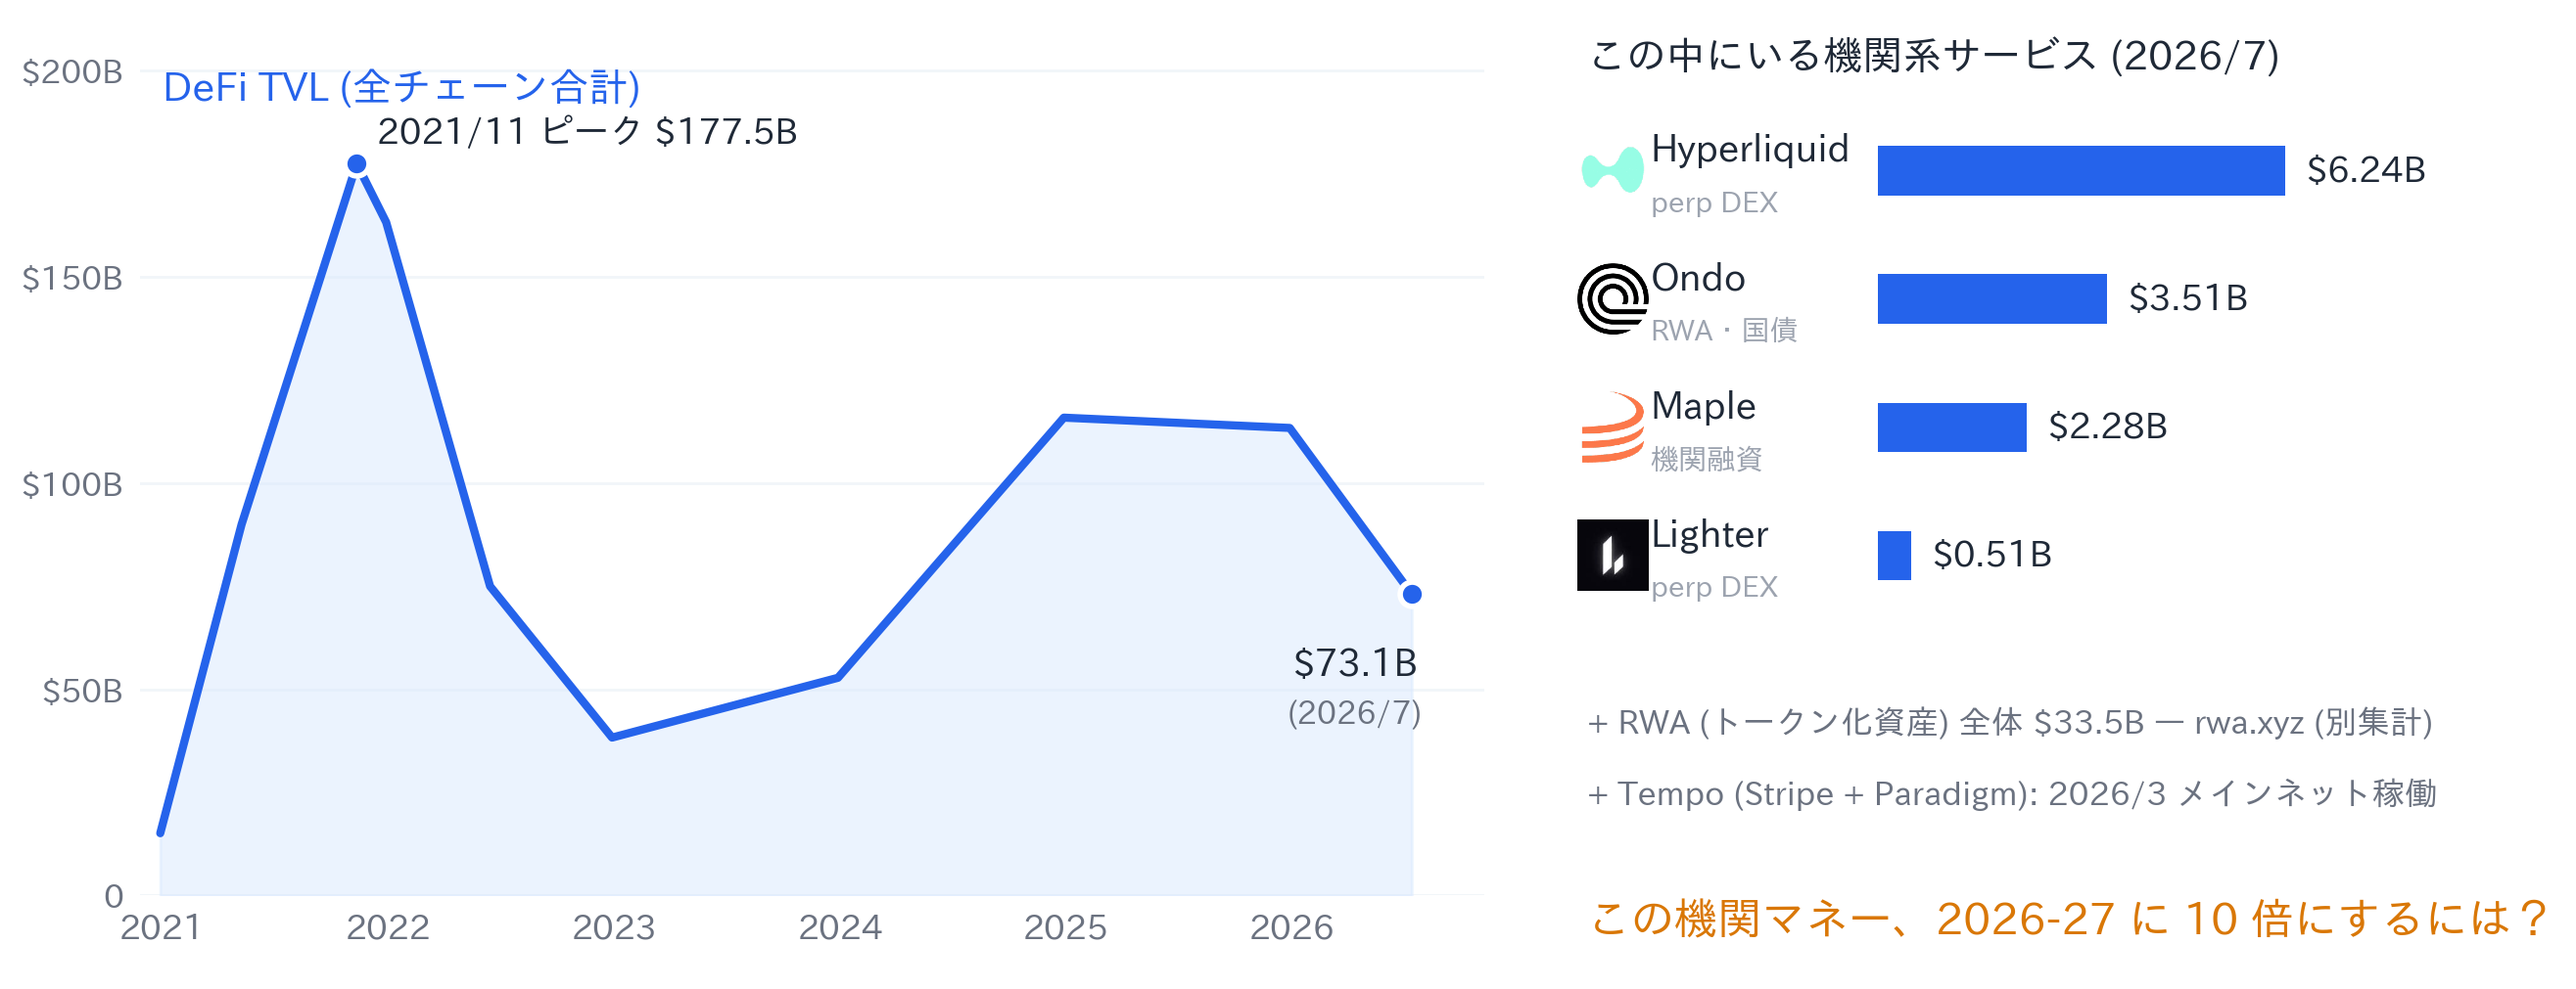
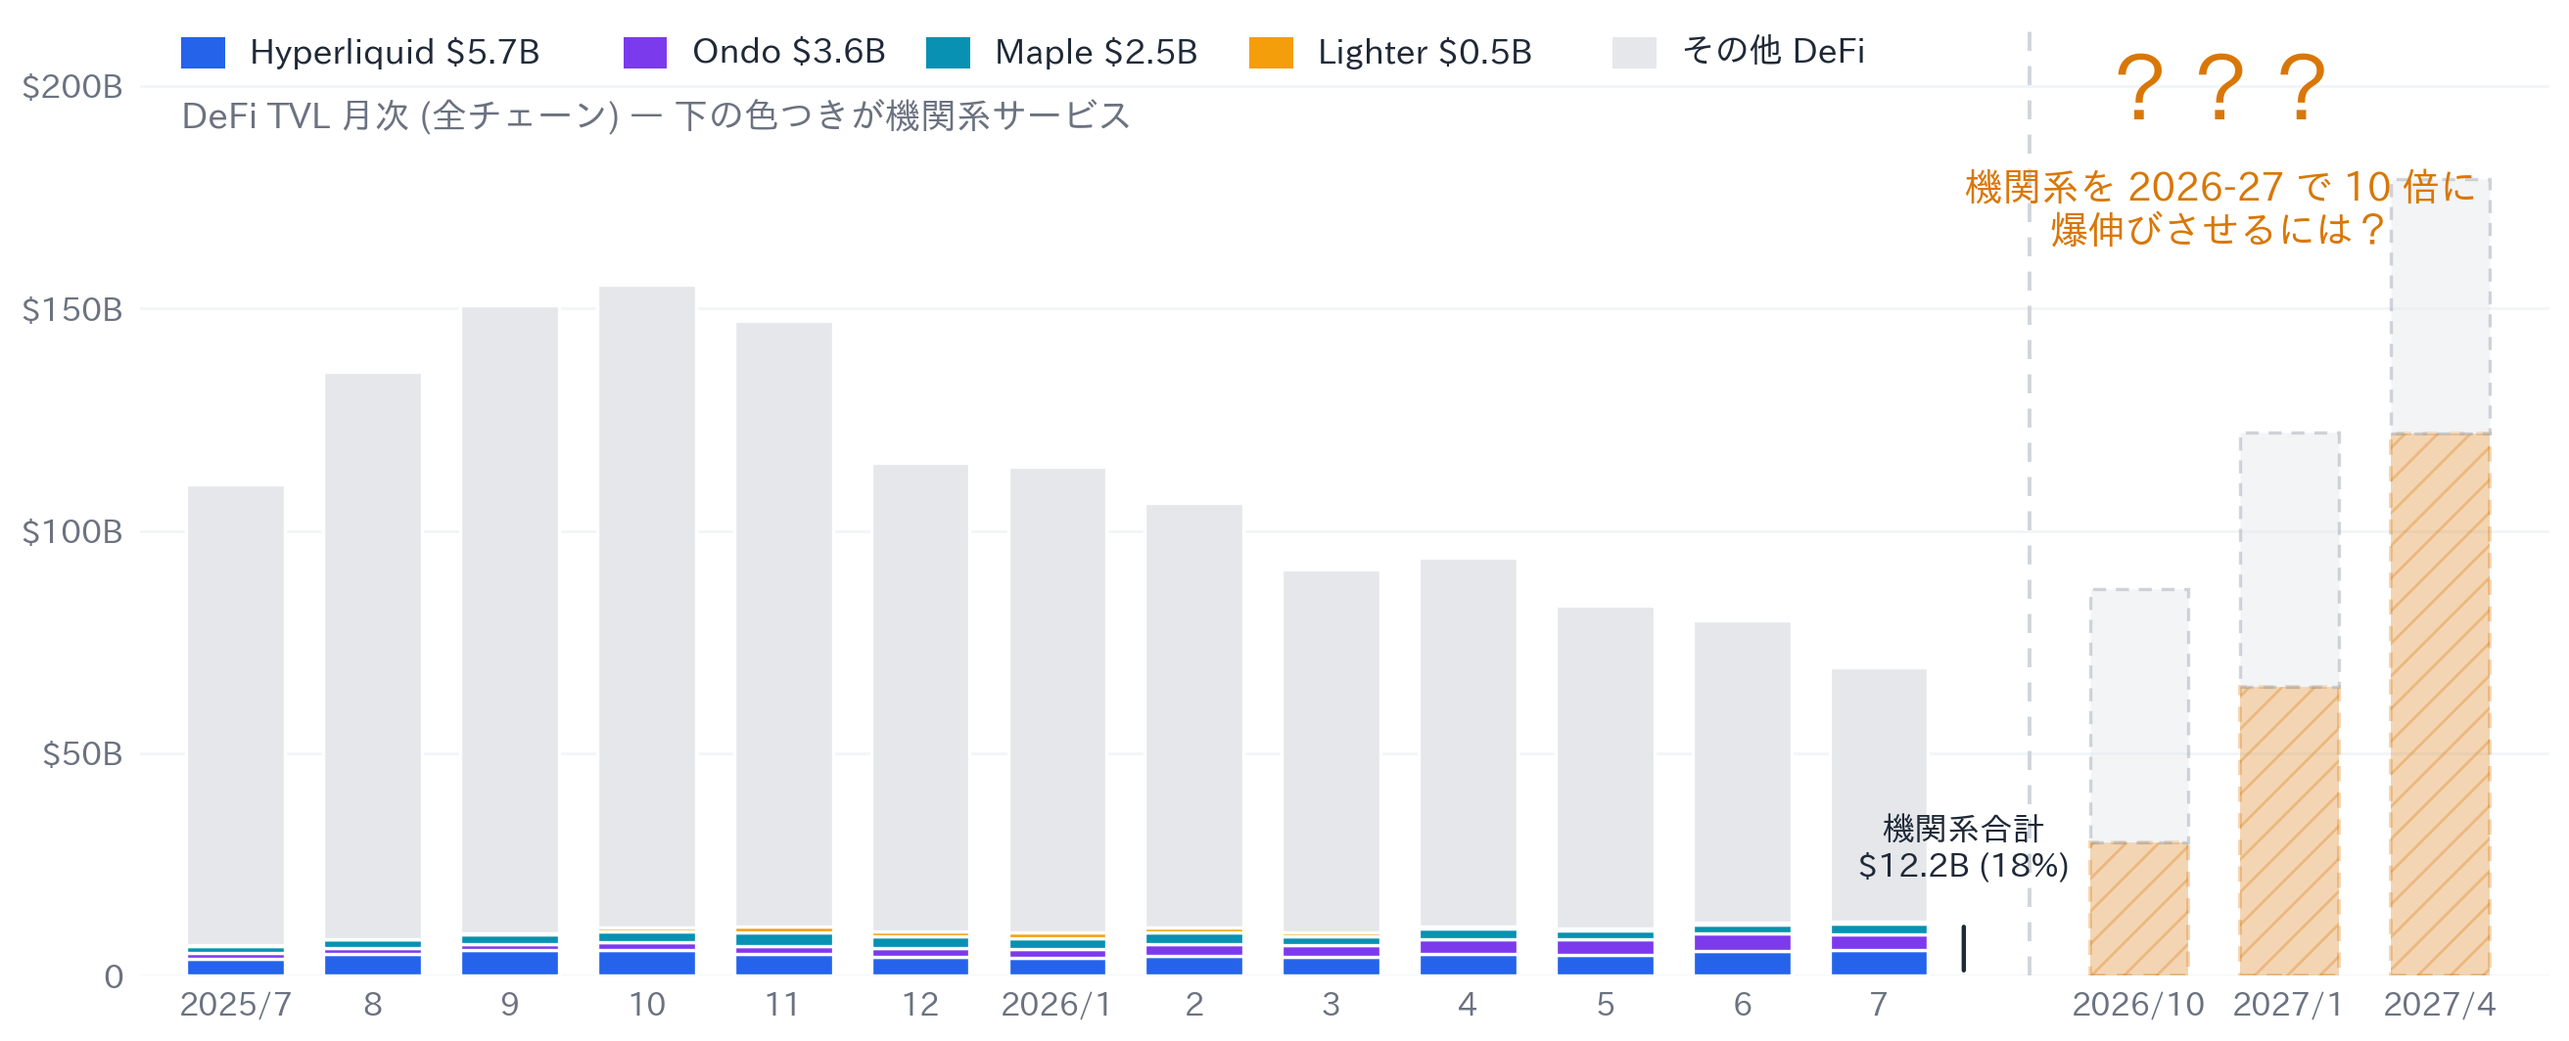
p9 (SL10c): 月次積み上げ bar に刷新 — 機関系内訳 + 2026/10 以降の 10 倍爆伸びシナリオをグラフだけで提示

diff --git a/figures/tvl_institutional.py b/figures/tvl_institutional.py
@@ -1,21 +1,20 @@
-# tvl_institutional.py — 全チェーン TVL 推移とその中の機関系サービス (SL10c)
+# tvl_institutional.py — DeFi TVL 月次 bar と機関系サービスの内訳 + 未来の爆伸び (SL10c)
 #
 # 生成: uv run --with matplotlib python3 figures/tvl_institutional.py
 # 出力: public/images/tvl_institutional.png
 #
 # 設計:
-#   - 左 = DeFi TVL (全チェーン, DefiLlama) の実年推移。単一の青い線 + 淡い面。
-#   - 右 = 2026/7 時点でその中にいる機関系サービスの横棒 (ロゴ + 実額)。
-#   - 右下に amber の問い「この機関マネー、2026-27 に 10 倍にするには？」
-#   - 凡例なし。直接ラベル。RWA は別集計なので注記行で分ける (二重計上しない)。
+#   - 2025/07-2026/07 の月次積み上げ bar。下から機関系 4 サービス (色分け)、上に その他 DeFi (グレー)。
+#     データは DefiLlama API (historicalChainTvl / protocol) の各月 1 日値 (2026-07-15 取得)。
+#   - 2026/09 以降はゴースト bar (ハッチ + 半透明): 機関系が 10 倍に爆伸びするシナリオ。
+#     amber の「？？？」だけを添え、答えはスライド側に書かない。
+#   - 凡例は上部のチップ行 (色 + 名前 + 最新値) で代替。固定順・色は entity に固定。
 
 import matplotlib
 matplotlib.use("Agg")
 import matplotlib.pyplot as plt
 import matplotlib.font_manager as fm
-import matplotlib.image as mpimg
 from matplotlib.patches import Rectangle
-from matplotlib.offsetbox import OffsetImage, AnnotationBbox
 
 candidates = ["Noto Sans CJK JP", "Noto Sans JP", "IPAexGothic", "IPAGothic", "TakaoGothic"]
 available = {f.name for f in fm.fontManager.ttflist}
@@ -24,110 +23,103 @@ plt.rcParams["font.family"] = font_family
 plt.rcParams["axes.unicode_minus"] = False
 
 OUT = "/home/gohan/workspace/presentation-agent/public/images/tvl_institutional.png"
-LOGO_DIR = "/home/gohan/workspace/presentation-agent/public/logos"
 
 SURFACE = "#ffffff"
-BLUE = "#2563eb"
-BLUE_FILL = "#dbeafe"
 AMBER = "#d97706"
 TEXT_PRIMARY = "#1f2937"
 TEXT_MUTED = "#6b7280"
-TEXT_FAINT = "#9ca3af"
 GRID = "#f1f5f9"
 
-fig = plt.figure(figsize=(13.2, 5.4), dpi=200)
-fig.patch.set_facecolor(SURFACE)
+# 色は entity に固定 (機関系 4 つ + その他)
+C_HL = "#2563eb"     # Hyperliquid
+C_ONDO = "#7c3aed"   # Ondo
+C_MAPLE = "#0891b2"  # Maple
+C_LIGHT = "#f59e0b"  # Lighter
+C_OTHER = "#e5e7eb"  # その他 DeFi
 
-# ---------------------------------------------------------------- TVL curve (left)
-ax = fig.add_axes([0.055, 0.12, 0.52, 0.80])
+months = ["2025/7", "8", "9", "10", "11", "12", "2026/1", "2", "3", "4", "5", "6", "7"]
+total = [110.35, 135.73, 150.70, 155.29, 147.13, 115.33, 114.49, 106.26, 91.37, 94.01, 83.14, 79.91, 69.24]
+hl    = [3.71, 4.89, 5.74, 5.83, 4.88, 4.35, 4.13, 4.49, 4.25, 4.93, 4.73, 5.61, 5.70]
+ondo  = [1.39, 1.38, 1.40, 1.69, 1.78, 1.82, 1.93, 2.70, 2.72, 3.21, 3.53, 3.89, 3.56]
+maple = [1.66, 1.84, 2.07, 2.51, 3.15, 2.64, 2.36, 2.59, 2.00, 2.47, 1.93, 2.03, 2.45]
+light = [0.18, 0.20, 0.34, 0.74, 1.15, 1.23, 1.35, 0.97, 0.88, 0.51, 0.48, 0.51, 0.51]
+
+inst_last = hl[-1] + ondo[-1] + maple[-1] + light[-1]   # 12.22
+other = [t - (a + b + c + d) for t, a, b, c, d in zip(total, hl, ondo, maple, light)]
+
+# 未来 (仮想シナリオ): 機関系が 2027 前半に向けて ~10 倍へ
+ghost_months = ["2026/10", "2027/1", "2027/4"]
+ghost_inst = [30, 65, 122]           # 12.2 → ~10x
+ghost_other = [other[-1]] * 3        # その他は横ばいに固定
+
+fig, ax = plt.subplots(figsize=(13.2, 5.4), dpi=200)
+fig.patch.set_facecolor(SURFACE)
 ax.set_facecolor(SURFACE)
 
-# DefiLlama historicalChainTvl (2026-07-14 取得)
-pts = [
-    (2020.99, 15.1), (2021.35, 90.0), (2021.86, 177.5), (2021.99, 163.3),
-    (2022.45, 75.0), (2022.99, 38.3), (2023.99, 52.8), (2024.99, 115.9),
-    (2025.99, 113.4), (2026.53, 73.1),
-]
-xs = [p[0] for p in pts]
-ys = [p[1] for p in pts]
-ax.fill_between(xs, ys, color=BLUE_FILL, alpha=0.55, zorder=2)
-ax.plot(xs, ys, color=BLUE, linewidth=3.0, zorder=4,
-        solid_capstyle="round", solid_joinstyle="round")
+BW = 0.72
+xs = list(range(13))
+gxs = [13.9, 15.0, 16.1]
+
+for i in xs:
+    y0 = 0
+    for v, c in [(hl[i], C_HL), (ondo[i], C_ONDO), (maple[i], C_MAPLE), (light[i], C_LIGHT), (other[i], C_OTHER)]:
+        ax.add_patch(Rectangle((i - BW / 2, y0), BW, v, facecolor=c,
+                               edgecolor="white", linewidth=1.2, zorder=3))
+        y0 += v
+
+for gx, gi, go in zip(gxs, ghost_inst, ghost_other):
+    ax.add_patch(Rectangle((gx - BW / 2, 0), BW, gi, facecolor=AMBER, alpha=0.30,
+                           hatch="//", edgecolor=AMBER, linewidth=1.4,
+                           linestyle=(0, (4, 3)), zorder=3))
+    ax.add_patch(Rectangle((gx - BW / 2, gi), BW, go, facecolor=C_OTHER, alpha=0.45,
+                           edgecolor="#9ca3af", linewidth=1.2,
+                           linestyle=(0, (4, 3)), zorder=3))
+
+# 実績とシナリオの境界
+ax.axvline(13.1, color="#d1d5db", linewidth=1.4, linestyle=(0, (5, 4)), zorder=2)
 
 for sp in ax.spines.values():
     sp.set_visible(False)
-ax.set_xlim(2020.9, 2026.85)
-ax.set_ylim(0, 205)
+ax.set_xlim(-0.7, 16.9)
+ax.set_ylim(0, 215)
 ax.set_yticks([0, 50, 100, 150, 200])
 ax.set_yticklabels(["0", r"\$50B", r"\$100B", r"\$150B", r"\$200B"],
                    fontsize=12, fontweight="bold", color=TEXT_MUTED)
-ax.set_xticks([2021, 2022, 2023, 2024, 2025, 2026])
-ax.set_xticklabels(["2021", "2022", "2023", "2024", "2025", "2026"],
-                   fontsize=12.5, fontweight="bold", color=TEXT_MUTED)
+ax.set_xticks(xs + gxs)
+ax.set_xticklabels(months + ghost_months, fontsize=11.5, fontweight="bold", color=TEXT_MUTED)
 ax.tick_params(length=0, pad=6)
 ax.grid(axis="y", color=GRID, linewidth=1, zorder=0)
 ax.set_axisbelow(True)
 
-ax.text(2021.0, 196, "DeFi TVL (全チェーン合計)", ha="left", va="center",
-        fontsize=14.5, fontweight="bold", color=BLUE)
-
-# milestones
-ax.scatter([2021.86, 2026.53], [177.5, 73.1], s=80, facecolor=BLUE,
-           edgecolor="white", linewidth=2.0, zorder=5)
-ax.text(2021.95, 185, r"2021/11 ピーク \$177.5B", ha="left", va="center",
-        fontsize=13, fontweight="bold", color=TEXT_PRIMARY)
-ax.text(2026.28, 56, r"\$73.1B", ha="center", va="center",
-        fontsize=13.5, fontweight="bold", color=TEXT_PRIMARY)
-ax.text(2026.28, 44, "(2026/7)", ha="center", va="center",
-        fontsize=11.5, fontweight="bold", color=TEXT_MUTED)
-
-# ---------------------------------------------------------------- institutional (right)
-axr = fig.add_axes([0.615, 0.05, 0.375, 0.90])
-axr.set_facecolor(SURFACE)
-axr.axis("off")
-axr.set_xlim(0, 100)
-axr.set_ylim(0, 100)
-
-axr.text(0, 96, "この中にいる機関系サービス (2026/7)", ha="left", va="center",
-         fontsize=14.5, fontweight="bold", color=TEXT_PRIMARY)
-
-TARGET_LOGO_H = 26.0
-
-def logo_zoom(path):
-    img = mpimg.imread(path)
-    return TARGET_LOGO_H / img.shape[0]
-
-rows = [
-    ("hyperliquid.png", "Hyperliquid", 6.24, "perp DEX"),
-    ("ondo.png", "Ondo", 3.51, "RWA・国債"),
-    ("maple.png", "Maple", 2.28, "機関融資"),
-    ("lighter.png", "Lighter", 0.51, "perp DEX"),
+# 上部チップ行 (凡例代替、固定順)
+chips = [
+    (C_HL, "Hyperliquid", hl[-1]), (C_ONDO, "Ondo", ondo[-1]),
+    (C_MAPLE, "Maple", maple[-1]), (C_LIGHT, "Lighter", light[-1]),
+    (C_OTHER, "その他 DeFi", None),
 ]
-BAR_X0, BAR_MAX_W = 30, 42
-y = 84
-for logo, name, val, tag in rows:
-    path = f"{LOGO_DIR}/{logo}"
-    ab = AnnotationBbox(OffsetImage(mpimg.imread(path), zoom=logo_zoom(path)),
-                        (2.6, y), frameon=False, zorder=7)
-    axr.add_artist(ab)
-    axr.text(6.5, y + 2.2, name, ha="left", va="center", fontsize=13.5,
-             fontweight="bold", color=TEXT_PRIMARY)
-    axr.text(6.5, y - 3.4, tag, ha="left", va="center", fontsize=10.5,
-             fontweight="bold", color=TEXT_FAINT)
-    w = BAR_MAX_W * val / 6.24
-    axr.add_patch(Rectangle((BAR_X0, y - 2.6), w, 5.2, facecolor=BLUE,
-                            edgecolor="none", zorder=5))
-    axr.text(BAR_X0 + w + 2, y, rf"\${val:.2f}B", ha="left", va="center",
-             fontsize=13, fontweight="bold", color=TEXT_PRIMARY)
-    y -= 13.5
+cx = -0.4
+for c, name, v in chips:
+    ax.add_patch(Rectangle((cx, 204), 0.32, 7, facecolor=c, edgecolor="none", zorder=6))
+    label = f"{name} " + (rf"\${v:.1f}B" if v is not None else "")
+    ax.text(cx + 0.5, 207.5, label, ha="left", va="center", fontsize=12.5,
+            fontweight="bold", color=TEXT_PRIMARY, zorder=6)
+    cx += 0.62 + len(label) * 0.145
 
-axr.text(0, 26, r"+ RWA (トークン化資産) 全体 \$33.5B — rwa.xyz (別集計)", ha="left",
-         va="center", fontsize=12, fontweight="bold", color=TEXT_MUTED)
-axr.text(0, 18.5, "+ Tempo (Stripe + Paradigm): 2026/3 メインネット稼働", ha="left",
-         va="center", fontsize=12, fontweight="bold", color=TEXT_MUTED)
+ax.text(-0.4, 193, "DeFi TVL 月次 (全チェーン) — 下の色つきが機関系サービス", ha="left",
+        va="center", fontsize=13, fontweight="bold", color=TEXT_MUTED, zorder=6)
 
-axr.text(0, 5, "この機関マネー、2026-27 に 10 倍にするには？", ha="left", va="center",
-         fontsize=16, fontweight="bold", color=AMBER)
+# 実績側の機関系ブラケット (2026/7)
+ax.annotate("", xy=(12.62, 0), xytext=(12.62, inst_last),
+            arrowprops=dict(arrowstyle="-", color=TEXT_PRIMARY, lw=1.6))
+ax.text(12.62, inst_last + 9, "機関系合計\n" + rf"\${inst_last:.1f}B (18%)", ha="center",
+        va="bottom", fontsize=12, fontweight="bold", color=TEXT_PRIMARY, zorder=6)
 
+# 未来シナリオの問い (グラフ内で完結させる)
+ax.text(14.5, 198, "？？？", ha="center", va="center", fontsize=30,
+        fontweight="900", color=AMBER, zorder=6)
+ax.text(14.5, 172, "機関系を 2026-27 で 10 倍に\n爆伸びさせるには？", ha="center", va="center",
+        fontsize=14, fontweight="bold", color=AMBER, zorder=6)
+
+plt.tight_layout(pad=1.0)
 plt.savefig(OUT, facecolor=SURFACE, bbox_inches="tight")
 print("saved:", OUT, "| font:", font_family)

diff --git a/slides/SL10c.md b/slides/SL10c.md
@@ -34,15 +34,13 @@ Speaker Notes:
 【概要 (需要 ④)】
 需要 ①②③に続く 4 枚目。機関マネーはすでに on-chain にいる (事実) → それを 10 倍にする壁がプライバシーとコンプライアンス (事実) → 「両立できたら Web3 は一気に来る」は聞き手に補完させる。次のスライドの ZK Bridge が「例えばこういう仕組み」の一例。
 
-【グラフの読み方 (左)】
-- DeFi TVL (全チェーン合計, DefiLlama): 2021/11 ピーク $177.5B → 2022 crash ($38.3B) → 2024-25 回復 ($113-116B) → 2026/7 現在 $73.1B。
-- 注: この系列は liquid staking 等の二重計上を除いた DefiLlama デフォルト設定。
-
-【右パネル (機関系サービス)】
-- Hyperliquid $6.24B (perp DEX、機関の執行が集まる) / Ondo $3.51B (米国債トークン化) / Maple $2.28B (機関融資) / Lighter $0.51B (perp DEX)。いずれも DefiLlama protocol TVL、2026/7/14 取得。
-- RWA 全体 $33.5B は rwa.xyz の別集計 (DeFi TVL に足すと二重計上になるため分けて表記)。2025 年初比 +400% 超。BlackRock BUIDL ~$2.4B が最大。
-- Tempo: Stripe + Paradigm の決済特化 L1。2026/3 メインネット。TVL 非公表だが、評価額 $5B・Visa / Mastercard / Deutsche Bank / UBS / OpenAI / Anthropic がパートナー — 「決済側の機関」も来ている証拠。
-- amber の問い「10 倍にするには？」は答えを言わずに置く。参考の外部言説: 機関の 66% が 2027 年までにトークン化 MMF 活用を計画 (2026 survey) / Ark Invest はトークン化資産 2030 年 $11T 予測。
+【グラフの読み方 (月次積み上げ bar)】
+- 2025/7〜2026/7 の月次 DeFi TVL (全チェーン合計, DefiLlama、各月 1 日値、2026/7/15 取得)。全体は 2025/10 の $155B をピークに 2026/7 は $69B へ調整。
+- bar の下の色つき部分が機関系サービスの内数: Hyperliquid $5.7B (perp DEX) / Ondo $3.6B (米国債トークン化) / Maple $2.5B (機関融資) / Lighter $0.5B (perp DEX)。合計 $12.2B。
+- ここが要点: 全体が下がる中で機関系は $6.9B → $12.2B とほぼ倍増し、シェアは 6% → 18% に上昇。「市況と独立に機関マネーが入り続けている」ことが bar の色の面積で読める。
+- 破線の右 (2026/10 以降) は仮想シナリオのゴースト bar: 機関系が 2027 前半に向けて 10 倍 ($122B) に爆伸びした世界。amber の「？？？」= このスライドの問い。答えは言わず、下の 2 枚のカード (壁) に繋ぐ。
+- RWA 全体 $33.5B (rwa.xyz) は別集計のため bar に足していない (二重計上防止)。Tempo (Stripe + Paradigm、2026/3 メインネット、TVL 非公表) も同様に注記のみ。
+- 参考の外部言説 (質問されたら): 機関の 66% が 2027 年までにトークン化 MMF 活用を計画 (2026 survey) / Ark Invest はトークン化資産 2030 年 $11T 予測。
 
 【下の 2 カード (壁)】
 - プライバシー: 全公開では取引戦略・顧客情報・ポジションが漏れる。Kinexys (J.P. Morgan) × MIT DCI のホワイトペーパーが、金融機関のパブリックチェーン利用障壁としてプライバシー/機密性を整理し、ZK ベースの機密トランザクションに言及している。

diff --git a/TODO.md b/TODO.md
@@ -22,10 +22,12 @@ p10=SL22, p11=SL12, p12=SL14, p13=SL15, p14=SL17, p15=SL23, p16=SL25, p17=SL29, 
 
 ## p9 (slides/SL10c.md) — 機関マネーの見せ方を bar グラフに
 
-- [ ] 機関マネーが入っているのがグラフから分かりづらい。2025 後半〜2026/07 の monthly の
+- [x] 機関マネーが入っているのがグラフから分かりづらい。2025 後半〜2026/07 の monthly の
       bar グラフにして、全体のうち Hyperliquid / Lighter 等のサービスの内訳も織り込む。
-- [ ] 2026/09 以降の未来に対して爆伸びしているのも見せて、
+      (DefiLlama API の月次実データ。機関系シェア 6% → 18% が bar の色で読める)
+- [x] 2026/09 以降の未来に対して爆伸びしているのも見せて、
       「このくらい爆伸びさせるには？？？」をグラフだけで見せる。
+      (2026/10-2027/4 のゴースト bar で機関系 10 倍シナリオ + amber ？？？)
 
 ## p14 (slides/SL17.md) — グラフを 1 個に統合
 
